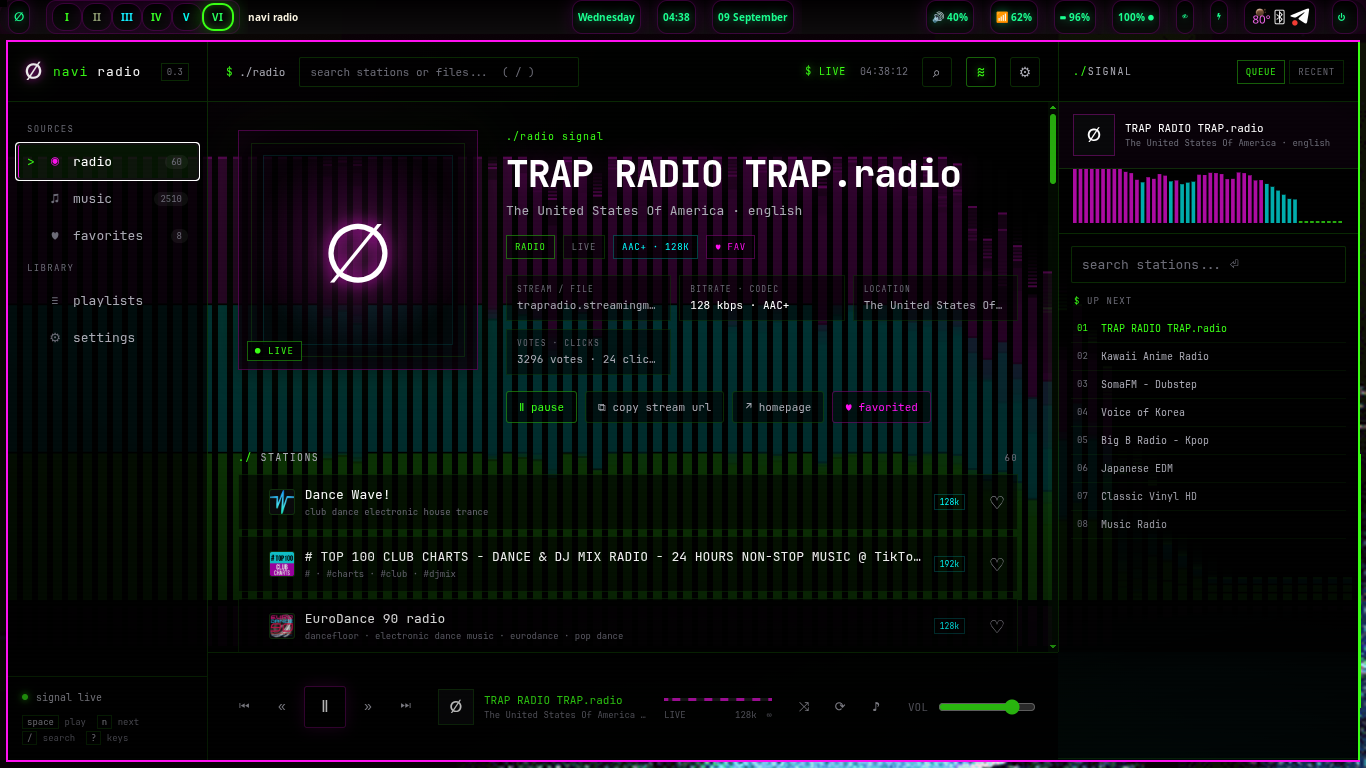
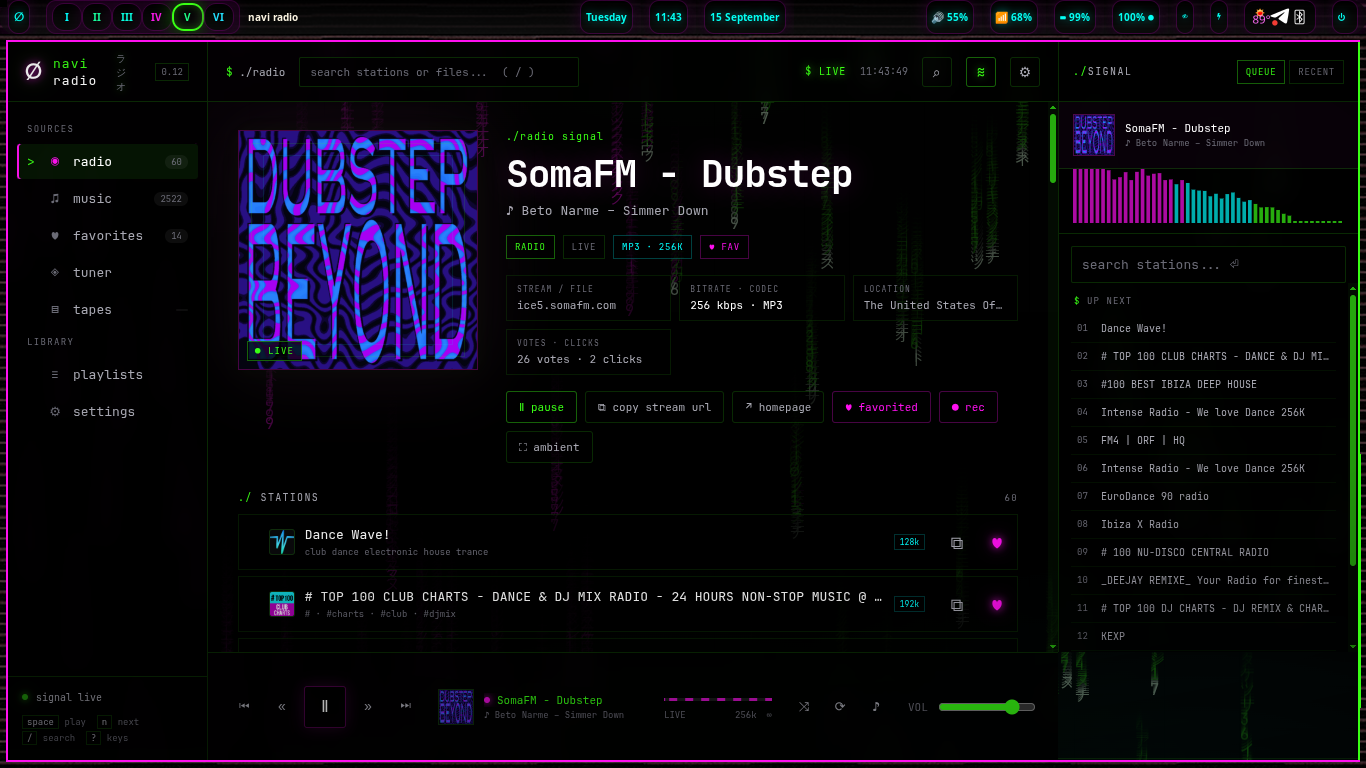
landing: fresh screenshots, 9-slide tour
- navi-radio.png: fresh shot of navi radio playing (was already wired)
- naviapps.png: fresh 70-app store shot (was stale); copy now says 70
- new slides: neighborli+glyyph side by side, fastfetch on the 2015
  Cloudbook (perma-computing proof); tabs + counts updated 07 -> 09

diff --git a/index.html b/index.html
@@ -394,7 +394,7 @@
       cursor: pointer;
     }
     .tour-arrow:hover, .tour-arrow:focus-visible { color: #000; background: var(--cyan); outline: 0; }
-    .tour-tabs { display: grid; grid-template-columns: repeat(7, 1fr); gap: 7px; }
+    .tour-tabs { display: grid; grid-template-columns: repeat(9, 1fr); gap: 7px; }
     .tour-tab {
       min-width: 0;
       padding: 7px 8px;
@@ -677,7 +677,7 @@
       .tour-controls { grid-template-columns: 42px 1fr 42px; }
       .tour-arrow { width: 42px; }
       .tour-tabs { grid-template-columns: repeat(2, 1fr); }
-      .tour-tab:nth-child(7) { grid-column: 1 / -1; }
+      .tour-tab:nth-child(9) { grid-column: 1 / -1; }
       .system-line { grid-template-columns: 38px 1fr; gap: 15px; }
       .first-party-strip { grid-template-columns: 1fr; }
       .first-party-strip article,
@@ -832,33 +832,39 @@
 
       <div class="tour-shell" aria-label="navi screenshot carousel">
         <div class="tour-screen" aria-live="polite">
-          <figure class="tour-slide active" data-title="the wired, ready" data-copy="A finished desktop in nightshadeNeon: focused, legible and built for the keyboard." data-meta="01 / 07">
+          <figure class="tour-slide active" data-title="the wired, ready" data-copy="A finished desktop in nightshadeNeon: focused, legible and built for the keyboard." data-meta="01 / 09">
             <img src="assets/hero.png" alt="The navi desktop with Waybar, terminal windows and the nightshadeNeon theme">
           </figure>
-          <figure class="tour-slide" data-title="tiled by default" data-copy="Sway arranges the work. i3 remains one session away when X11 is the right tool." data-meta="02 / 07">
+          <figure class="tour-slide" data-title="tiled by default" data-copy="Sway arranges the work. i3 remains one session away when X11 is the right tool." data-meta="02 / 09">
             <img src="assets/tiled.png" alt="navi tiled desktop with Vim, ranger and terminal windows">
           </figure>
-          <figure class="tour-slide" data-title="agents belong here" data-copy="navi-Q and open agent tools meet the operating system in the terminal, where the work already happens." data-meta="03 / 07">
+          <figure class="tour-slide" data-title="agents belong here" data-copy="navi-Q and open agent tools meet the operating system in the terminal, where the work already happens." data-meta="03 / 09">
             <img src="assets/agent.png" alt="navi-Q agent mode alongside a terminal visualization">
           </figure>
-          <figure class="tour-slide" data-title="radio from the smallweb" data-copy="navi radio brings live stations and local music into a screen tuned to the rest of the desktop." data-meta="04 / 07">
+          <figure class="tour-slide" data-title="radio from the smallweb" data-copy="navi radio brings live stations and local music into a screen tuned to the rest of the desktop." data-meta="04 / 09">
             <img src="assets/navi-radio.png" alt="navi radio playing a station in its nightshadeNeon interface">
           </figure>
-          <figure class="tour-slide" data-title="apps, living locally" data-copy="naviApps is an offline-first catalog of 68 installable webapps, including a dedicated from xvoidsx collection." data-meta="05 / 07">
+          <figure class="tour-slide" data-title="apps, living locally" data-copy="naviApps is an offline-first catalog of 70 installable webapps, including a dedicated from xvoidsx collection." data-meta="05 / 09">
             <img src="assets/naviapps.png" alt="The local naviApps web interface with search, categories and app cards">
           </figure>
-          <figure class="tour-slide" data-title="duskline, in the wild" data-copy="A real daily desktop: Waybar overhead, music in motion and a violet horizon behind it." data-meta="06 / 07">
+          <figure class="tour-slide" data-title="your people, your protocols" data-copy="neighborli on the fediverse and glyyph on nostr, side by side — social that belongs to you, not a platform." data-meta="06 / 09">
+            <img src="assets/neighborli-glyyph.png" alt="neighborli and the glyyph nostr client open side by side on the navi desktop">
+          </figure>
+          <figure class="tour-slide" data-title="duskline, in the wild" data-copy="A real daily desktop: Waybar overhead, music in motion and a violet horizon behind it." data-meta="07 / 09">
             <img src="assets/duskline-desktop.png" alt="A real navi desktop with duskline gifpaper, Waybar and music tools">
           </figure>
-          <figure class="tour-slide" data-title="the wired has a pulse" data-copy="cmus and cava arrive pre-tuned in cyan, green, magenta and red — music is part of the environment." data-meta="07 / 07">
+          <figure class="tour-slide" data-title="the wired has a pulse" data-copy="cmus and cava arrive pre-tuned in cyan, green, magenta and red — music is part of the environment." data-meta="08 / 09">
             <img src="assets/music-desktop.png" alt="A real navi desktop with cmus, cava and an animated Lain wallpaper">
+          </figure>
+          <figure class="tour-slide" data-title="old iron, new tricks" data-copy="navi 1.2 on a 2015 Acer Cloudbook. if it flies here, it flies anywhere — that's perma-computing." data-meta="09 / 09">
+            <img src="assets/fastfetch.png" alt="fastfetch showing navi 1.2 mika running on a 2015 Acer Aspire Cloudbook">
           </figure>
           <div class="tour-overlay">
             <div>
               <h3 id="tour-title">the wired, ready</h3>
               <p id="tour-copy">A finished desktop in nightshadeNeon: focused, legible and built for the keyboard.</p>
             </div>
-            <span class="tour-count" id="tour-count">01 / 07</span>
+            <span class="tour-count" id="tour-count">01 / 09</span>
           </div>
         </div>
         <div class="tour-controls">
@@ -869,8 +875,10 @@
             <button class="tour-tab" type="button" role="tab" aria-selected="false">agents</button>
             <button class="tour-tab" type="button" role="tab" aria-selected="false">radio</button>
             <button class="tour-tab" type="button" role="tab" aria-selected="false">apps</button>
+            <button class="tour-tab" type="button" role="tab" aria-selected="false">social</button>
             <button class="tour-tab" type="button" role="tab" aria-selected="false">duskline</button>
             <button class="tour-tab" type="button" role="tab" aria-selected="false">music</button>
+            <button class="tour-tab" type="button" role="tab" aria-selected="false">system</button>
           </div>
           <button class="tour-arrow" type="button" id="tour-next" aria-label="Next screenshot">→</button>
         </div>
